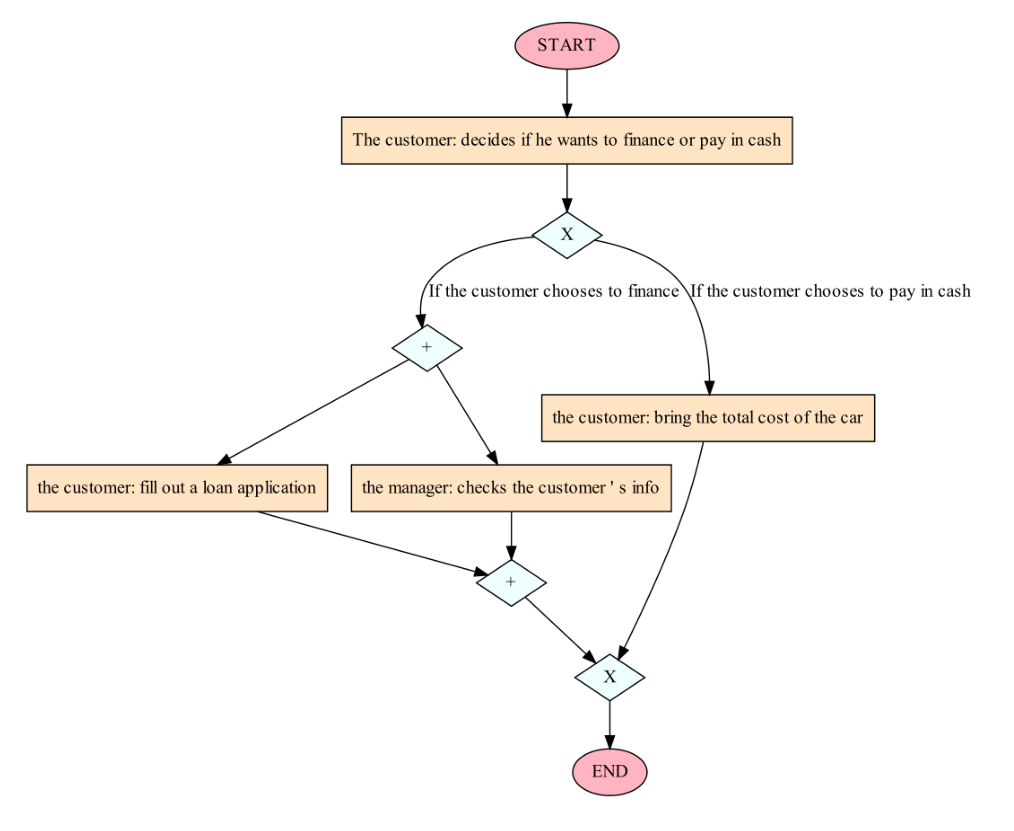
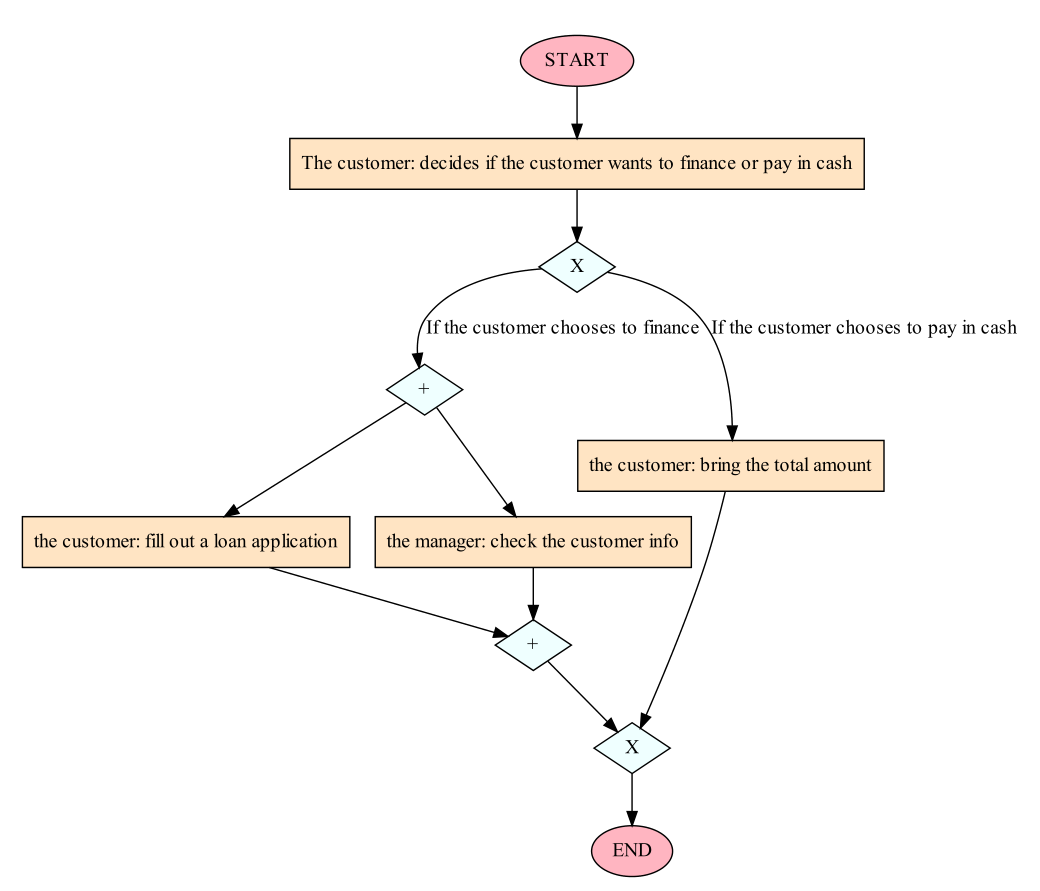
Update README.md

diff --git a/README.md b/README.md
@@ -38,10 +38,7 @@ customer searches for the goods and picks up the goods.*
 
 ### Example #4
 
-*The customer decides if he wants to finance or pay in cash. If the customer chooses to finance, the
-customer will need to fill out a loan application. Meanwhile, the manager checks the customer's info.
-If the customer chooses to pay in cash, the customer will need to bring the total cost of the car to
-the dealership in order to complete the transaction.*
+*The customer decides if he wants to finance or pay in cash. If the customer chooses to finance, two activities will happen in parallel: the customer will fill out a loan application and the manager will check the customer's info. If the customer chooses to pay in cash, the customer will need to bring the total amount to the dealership in order to complete the transaction.*
 
 <p align="center">
 <img src="images/image_4.png" width="700">
